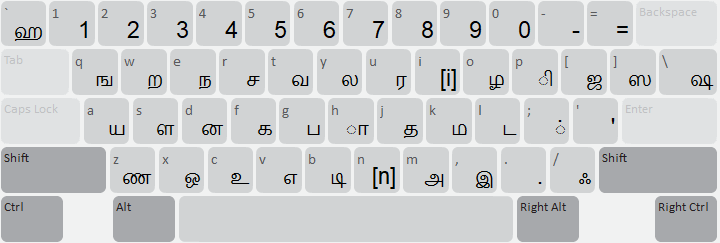
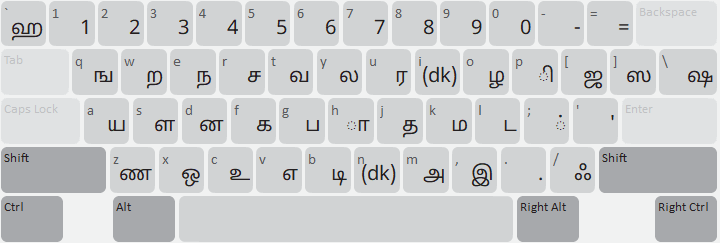
[thamizha_bamini] Update keyboard

diff --git a/release/t/thamizha_bamini/source/welcome/welcome.htm b/release/t/thamizha_bamini/source/welcome/welcome.htm
@@ -52,6 +52,8 @@ intended for use with a normal QWERTY (English) keyboard. </p>
 	<p><a href="LayoutU_.png"><img class="keyboard" src="LayoutU_.png" alt="Default (unshifted) state" /></a></p>
 	<h4>Shift</h4>
 	<p><a href="LayoutU_S.png"><img class="keyboard" src="LayoutU_S.png" alt="Shift state" /></a></p>
+	<h4>RightAlt</h4>
+	<p><a href="LayoutU_RA.png"><img class="keyboard" src="LayoutU_RA.png" alt="RightAlt state" /></a></p>
 </div>
 		
 

diff --git a/release/t/thamizha_bamini/HISTORY.md b/release/t/thamizha_bamini/HISTORY.md
@@ -1,6 +1,11 @@
 சுரதா-பாமுனி | Suratha Bamini Change History
 ====================
 
+2.2.2 (2025-08-26)
+-----------------
+* Added support for Indian Rupee Sign ₹
+* Fixed bug to support U+0BC1 vowel sign u 
+
 2.2.1 (2025-02-20)
 -----------------
 * Put OSKFont from .kps file into .kvks file
